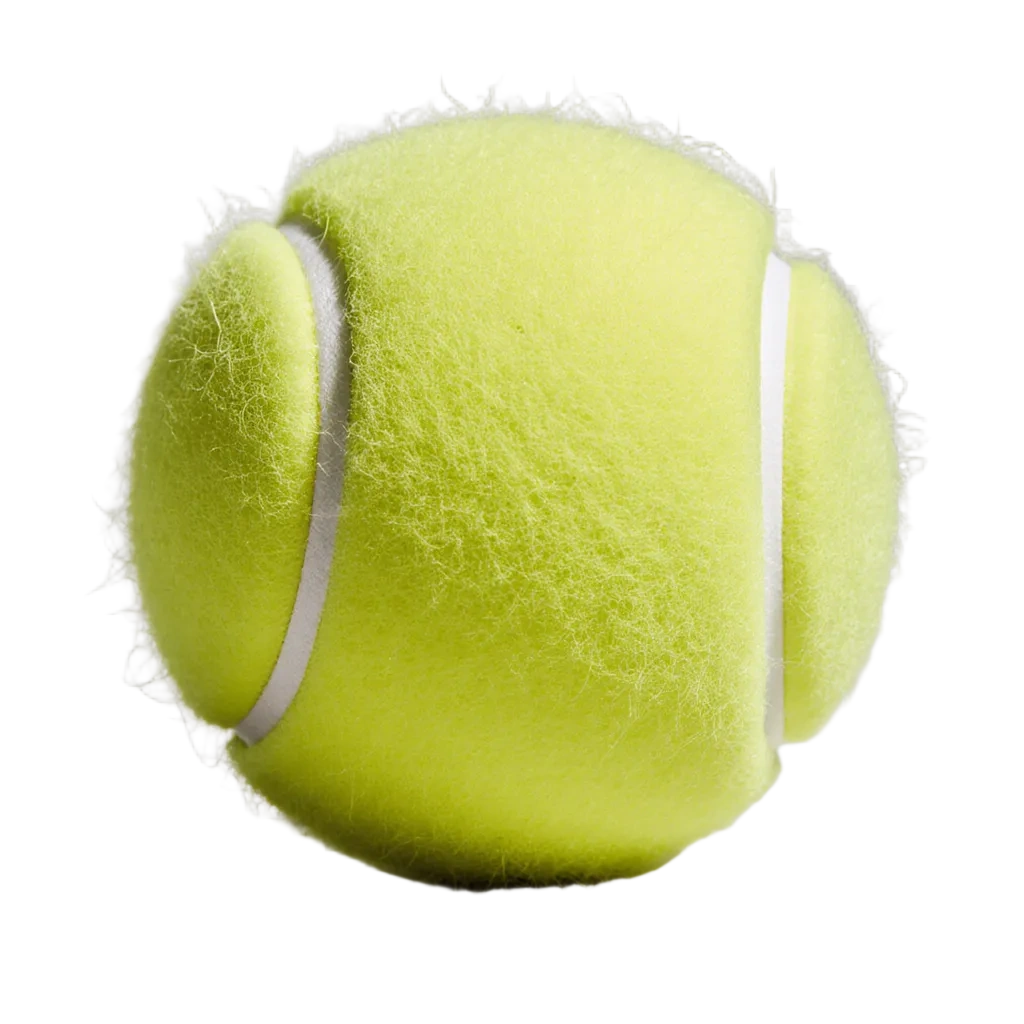
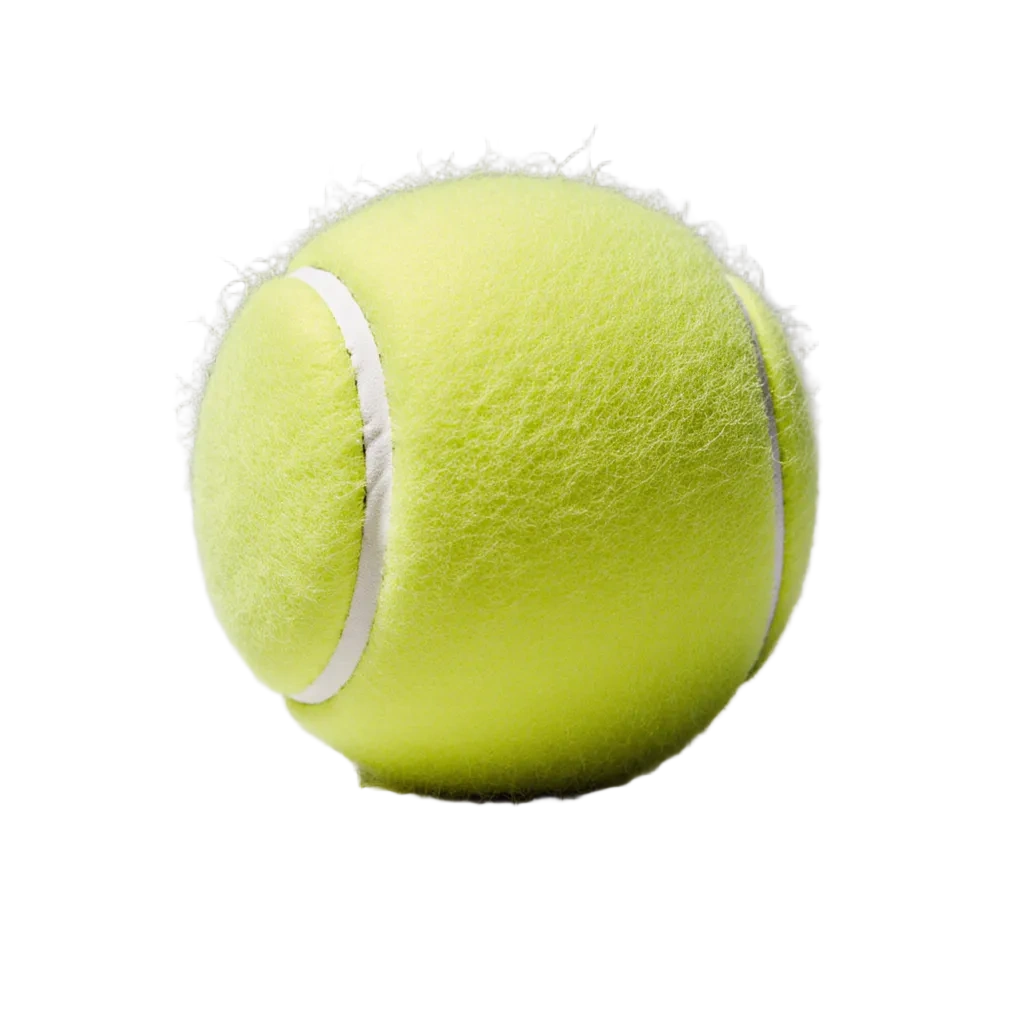
Rounder, tidier ball photo and print that sits in the felt
New photo (seed 4242): a truer sphere with short felt and a real seam
curve, with stray fibres trimmed past the outline. The print now follows
the felt: edges wander with the fibre relief and break up on raised
fibres, dark ink is partly tinted by the felt beneath, and fibre
highlights show through. Print is centred on the felt panel, and the
hero ball moves left so the gift can no longer covers it.

diff --git a/site/ball.js b/site/ball.js
@@ -15,7 +15,7 @@
   var THETA = 0.92;        // the texture covers ±THETA radians of the ball
   // The photo: ball radius as a share of the image width (brand/make_ball_photo.py prints it),
   // and the turn that centres the print on the felt panel between the two seams.
-  var PHOTO = "assets/ball.webp", PHOTO_R = 0.4464, LAM0 = 0.06;
+  var PHOTO = "assets/ball.webp", PHOTO_R = 0.4464, LAM0 = 0.24;
   var FELT_LUM = 186;      // brightness of the lit felt, where ink shows at its true colour
 
   var cache = {};          // per-size photo pixels and sphere mapping
@@ -77,6 +77,16 @@
         tv[k] = (phi / THETA + 1) / 2 * TEX;
       }
     }
+    // Ink follows the felt: nudge each texture lookup along the fibre relief, so edges wander a little.
+    var push = TEX / (2 * THETA * R) * Math.max(0.6, S / 500) * 0.045;
+    for (y = 1; y < S - 1; y++) {
+      for (x = 1; x < S - 1; x++) {
+        k = y * S + x;
+        if (tu[k] < 0) continue;
+        tu[k] += Math.max(-30, Math.min(30, detail[k + 1] - detail[k - 1])) * push;
+        tv[k] += Math.max(-30, Math.min(30, detail[k + S] - detail[k - S])) * push;
+      }
+    }
     cache[S] = { R: R, cx: cx, cy: cy, base: base, lum: lum, detail: detail, tu: tu, tv: tv };
     return cache[S];
   }
@@ -112,7 +122,7 @@
     var logo = design.logo && design.logoLayout !== "none" ? design.logo : null;
     var only = logo && design.logoLayout === "only";
     var lines = only ? [] : (design.lines || []).filter(Boolean).map(function (s) { return f.upper ? s.toUpperCase() : s; });
-    var maxW = TEX * 0.52;   // keeps the print on the felt panel, clear of the seams
+    var maxW = TEX * 0.54;   // keeps the print on the felt panel, clear of the seams
     var px = 120 * f.scale * (logo ? 0.82 : 1);
     lines.forEach(function (s) { px = Math.min(px, px * maxW / Math.max(1, widthOf(ictx, s, f, px))); });
     var lineH = px * f.line;
@@ -174,16 +184,19 @@
       var ca = colD ? colD[i0 + 3] / 255 : 0;
       if (ia <= 0 && ca <= 0) continue;
       var o = k * 4;
-      var r = px[o], gg = px[o + 1], b = px[o + 2];
-      // The photo's light, relative to the lit felt, shades the ink; stray bright fibres lie over it.
+      var r = px[o], gg = px[o + 1], b = px[o + 2], fr = r, fg = gg, fb = b;
+      // The photo's light, relative to the lit felt, shades the ink.
       var sh = Math.max(0.35, Math.min(1.12, g.lum[k] / FELT_LUM));
-      var fibre = Math.max(0.45, Math.min(1, 0.92 - g.detail[k] / 55));
+      // Raised fibres catch less ink and stray bright ones lie over it; edges break up along the felt.
+      var dt = g.detail[k];
+      var fibre = Math.max(0.35, Math.min(1, 0.9 - dt / 45));
+      var rough = dt / 60;
       if (ca > 0) {
-        ca *= 0.95 * fibre;
+        ca = Math.max(0, Math.min(1, (ca - 0.5) * 1.5 + 0.5 - rough)) * 0.95 * fibre;
         r = r * (1 - ca) + colD[i0] * sh * ca; gg = gg * (1 - ca) + colD[i0 + 1] * sh * ca; b = b * (1 - ca) + colD[i0 + 2] * sh * ca;
       }
       if (ia > 0) {
-        ia *= 0.94 * fibre;
+        ia = Math.max(0, Math.min(1, (ia - 0.5) * 1.5 + 0.5 - rough)) * 0.92 * fibre;
         var ir, ig, ib;
         if (gold) {
           var s = Math.pow(Math.max(0, sh - 0.8) / 0.32, 3), lift = 0.62 + 0.5 * sh;
@@ -192,8 +205,14 @@
           // White ink takes the felt's shading but never goes grey: it keeps a little pink.
           ir = 255 * sh * 0.97; ig = 246 * sh * 0.97; ib = 249 * sh * 0.97;
         } else {
-          ir = inkC[0] * sh; ig = inkC[1] * sh; ib = inkC[2] * sh;
+          // Dark ink soaks into the felt: part opaque, part tinted by the felt beneath it.
+          ir = inkC[0] * sh * 0.75 + fr * inkC[0] / 255 * 0.25 + 18 * sh;
+          ig = inkC[1] * sh * 0.75 + fg * inkC[1] / 255 * 0.25 + 10 * sh;
+          ib = inkC[2] * sh * 0.75 + fb * inkC[2] / 255 * 0.25 + 14 * sh;
         }
+        // Fibre highlights still show through the ink.
+        var lift = Math.max(0, dt) * 0.5;
+        ir += lift; ig += lift; ib += lift;
         r = r * (1 - ia) + ir * ia; gg = gg * (1 - ia) + ig * ia; b = b * (1 - ia) + ib * ia;
       }
       px[o] = r; px[o + 1] = gg; px[o + 2] = b;

diff --git a/site/styles.css b/site/styles.css
@@ -123,9 +123,9 @@ p { text-wrap: pretty; }
 
 .hero__art { position: relative; justify-self: center; width: min(560px, 100%); aspect-ratio: 1; }
 .hero__heart { position: absolute; inset: -4% -6% -2%; width: 112%; height: 106%; color: var(--rasp); opacity: .5; }
-.hero__ball { position: absolute; inset: 6% 8% 8% 4%; width: 88%; }
+.ball-canvas.hero__ball { position: absolute; inset: 6% 14% 10% 0; width: 86%; }
 .hero__can {
-  position: absolute; right: -2%; bottom: -6%; width: 23%; height: auto; aspect-ratio: 200 / 520;
+  position: absolute; right: -6%; bottom: -8%; width: 21%; height: auto; aspect-ratio: 200 / 520;
   transform: rotate(7deg); filter: drop-shadow(0 22px 22px rgba(92, 24, 52, .22));
 }
 .hero__rose { position: absolute; left: 0; top: 2%; width: 17%; height: auto; transform: rotate(-14deg); }

diff --git a/brand/make_ball_photo.py b/brand/make_ball_photo.py
@@ -25,7 +25,7 @@ t = np.clip((lum - lo) / (hi - lo), 0, 1)
 
 # Deep rose in shadow, the can's ball pink across the lit face, a soft blush highlight.
 stops = np.array([0.0, 0.3, 0.6, 0.82, 1.0], np.float32)
-cols = np.array([[132, 40, 78], [204, 102, 138], [238, 160, 184], [247, 186, 204], [252, 210, 222]], np.float32) / 255
+cols = np.array([[128, 36, 74], [200, 96, 132], [234, 150, 176], [244, 176, 197], [250, 198, 213]], np.float32) / 255
 pink = np.stack([np.interp(t, stops, cols[:, c]) for c in range(3)], 2)
 # The white rubber seam keeps its own light, warmed a touch.
 seam = np.stack([lum, lum * 0.97, lum * 0.97], 2) * 1.04
@@ -33,12 +33,19 @@ seam = np.stack([lum, lum * 0.97, lum * 0.97], 2) * 1.04
 felt = np.maximum(np.clip((sat - 0.14) / 0.2, 0, 1), np.clip((0.9 - alpha) / 0.3, 0, 1))[..., None]
 out = np.clip(pink * felt + seam * (1 - felt), 0, 1)
 
-# Square crop centred on the ball's solid disc; record its radius for ball.js.
+# The ball's disc, from its left, right and top edges (the bottom is flattened where it met the floor).
 solid = alpha > 0.95
 ys, xs = np.nonzero(solid)
 x0, x1 = np.percentile(xs, [0.1, 99.9])
-y0, y1 = np.percentile(ys, [0.1, 99.9])
-cx, cy, r = (x0 + x1) / 2, (y0 + y1) / 2, max(x1 - x0, y1 - y0) / 2
+r = (x1 - x0) / 2
+cx, cy = (x0 + x1) / 2, np.percentile(ys, 0.1) + r
+
+# Trim the loose fibres to a short, tidy halo just past the outline.
+yy, xx = np.mgrid[0:alpha.shape[0], 0:alpha.shape[1]]
+d = np.hypot(xx - cx, yy - cy) / r
+alpha = alpha * np.clip((1.025 - d) / 0.03, 0, 1)
+
+# Square crop centred on the disc; record its radius for ball.js.
 half = r * 1.12
 box = tuple(int(round(v)) for v in (cx - half, cy - half, cx + half, cy + half))
 img = Image.fromarray((np.dstack([out, alpha]) * 255).astype(np.uint8), "RGBA").crop(box).resize((SIZE, SIZE), Image.LANCZOS)
